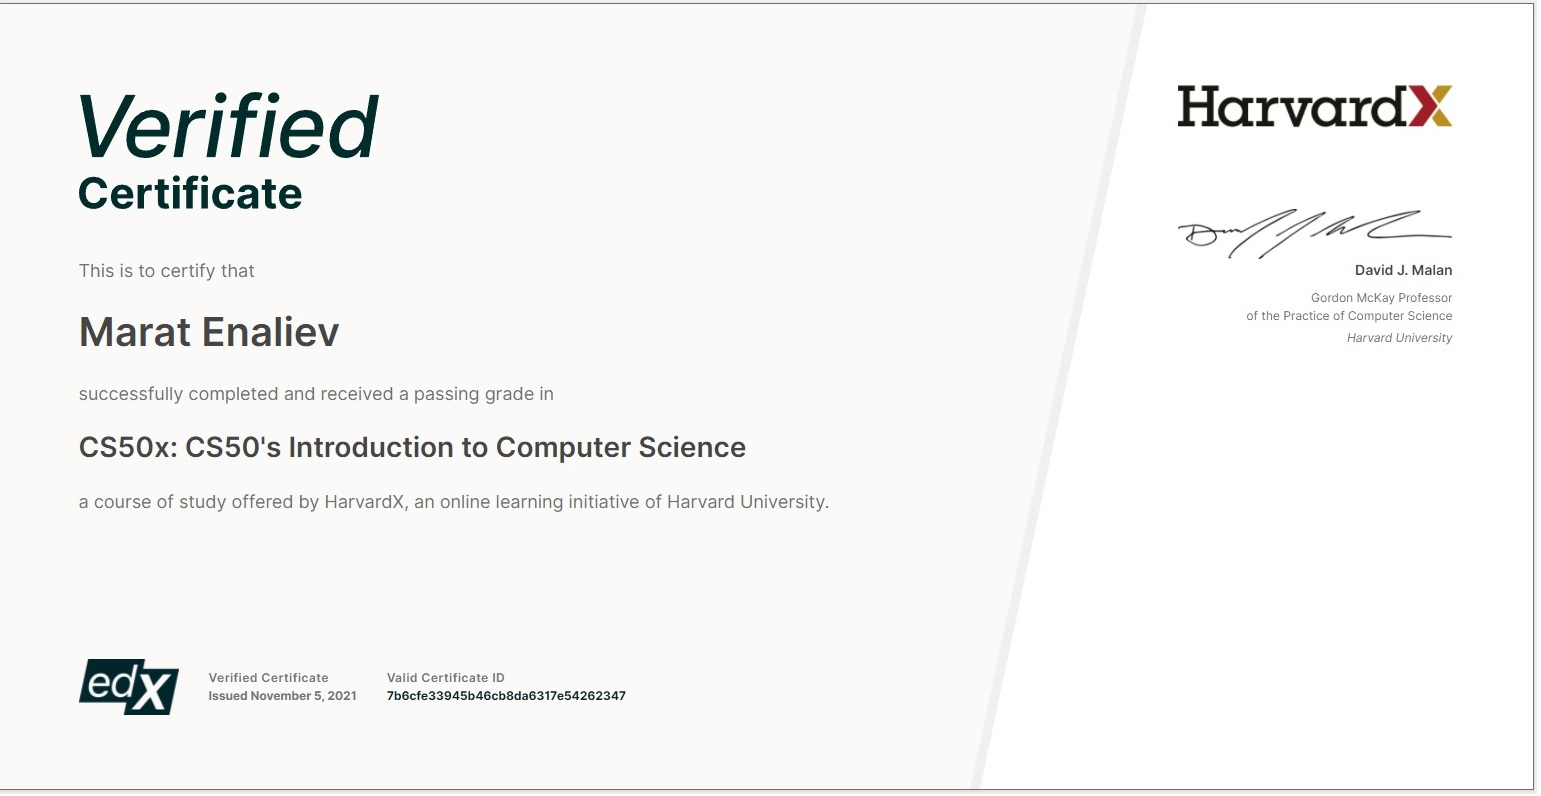
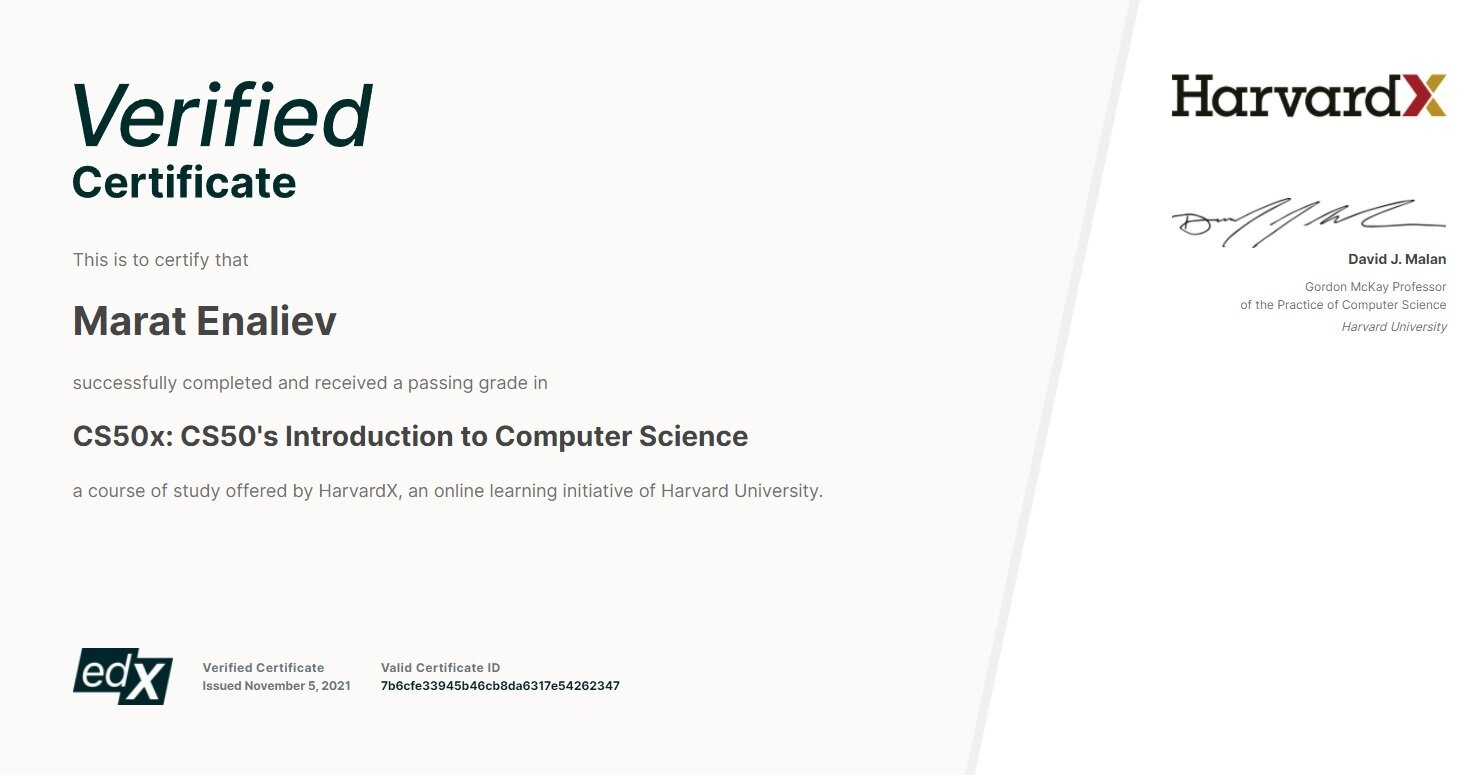
Remove redundant files.

diff --git a/index.html b/index.html
@@ -113,13 +113,13 @@
 
           <div class="certificate_container">
             <a href="https://www.freecodecamp.org/certification/enamarat/full-stack" target="_blank">
-              <img class="certificate" src="./images/certificates/rsz.jpg"/>
+              <img class="certificate" src="./images/certificates/freeCodeCamp.jpg"/>
             </a>
           </div>
 
           <div class="certificate_container">
             <a href="https://courses.edx.org/certificates/7b6cfe33945b46cb8da6317e54262347" target="_blank">
-              <img class="certificate" src="./images/certificates/rsz3.jpg"/>
+              <img class="certificate" src="./images/certificates/harvardX_cs50.jpg"/>
             </a>
           </div>
 
